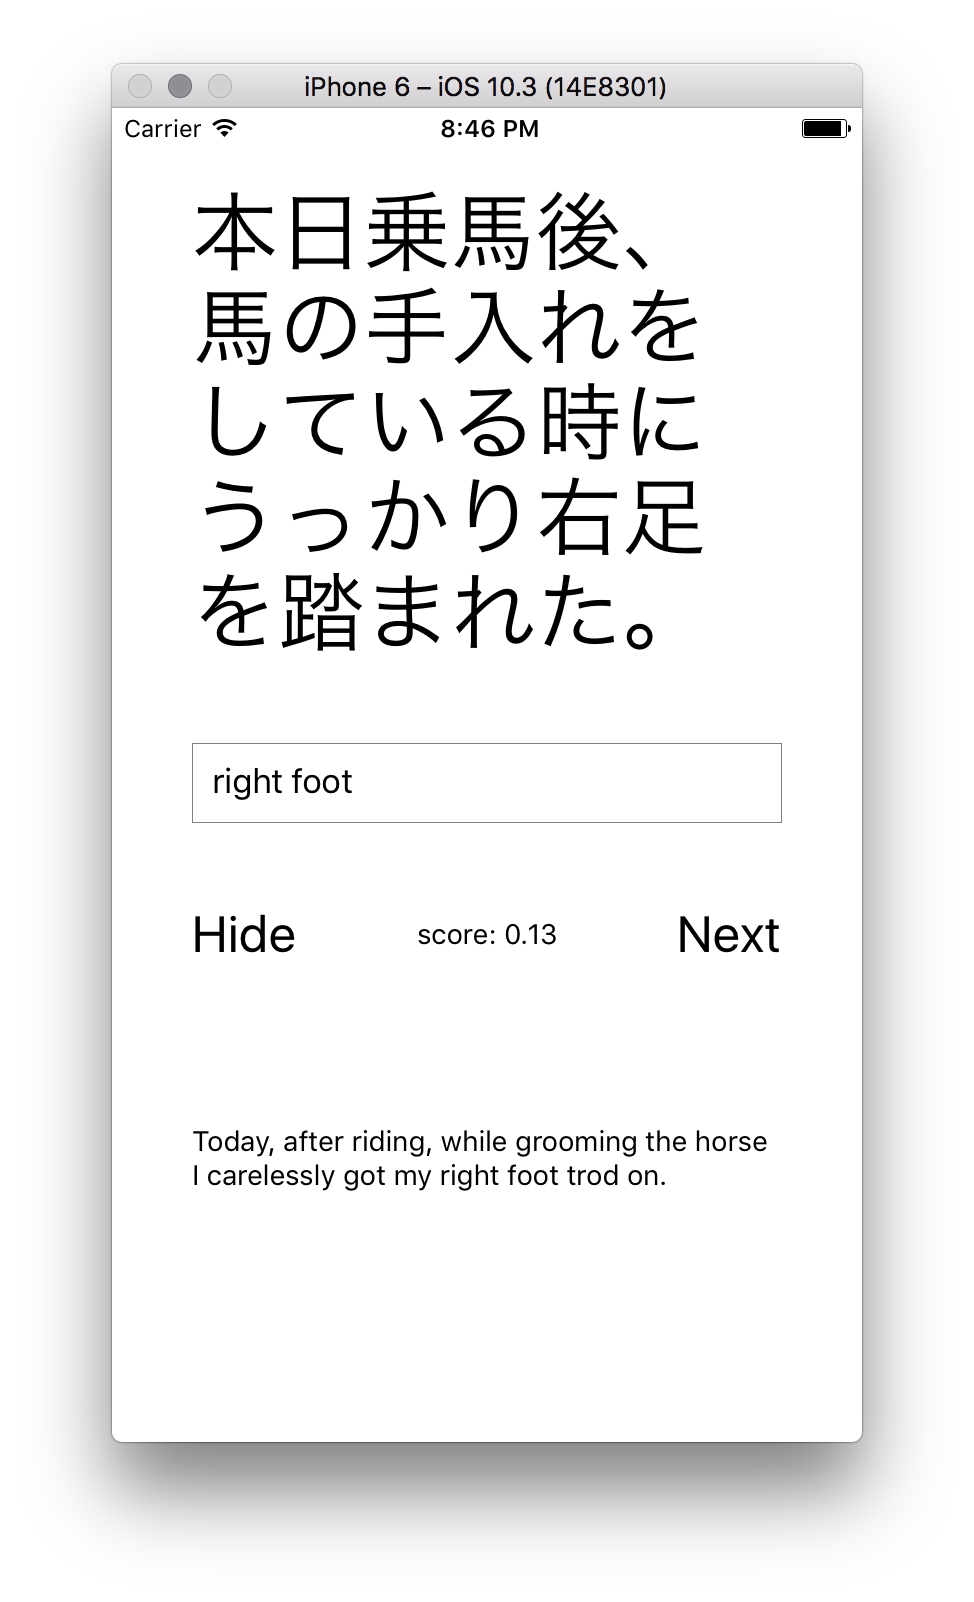
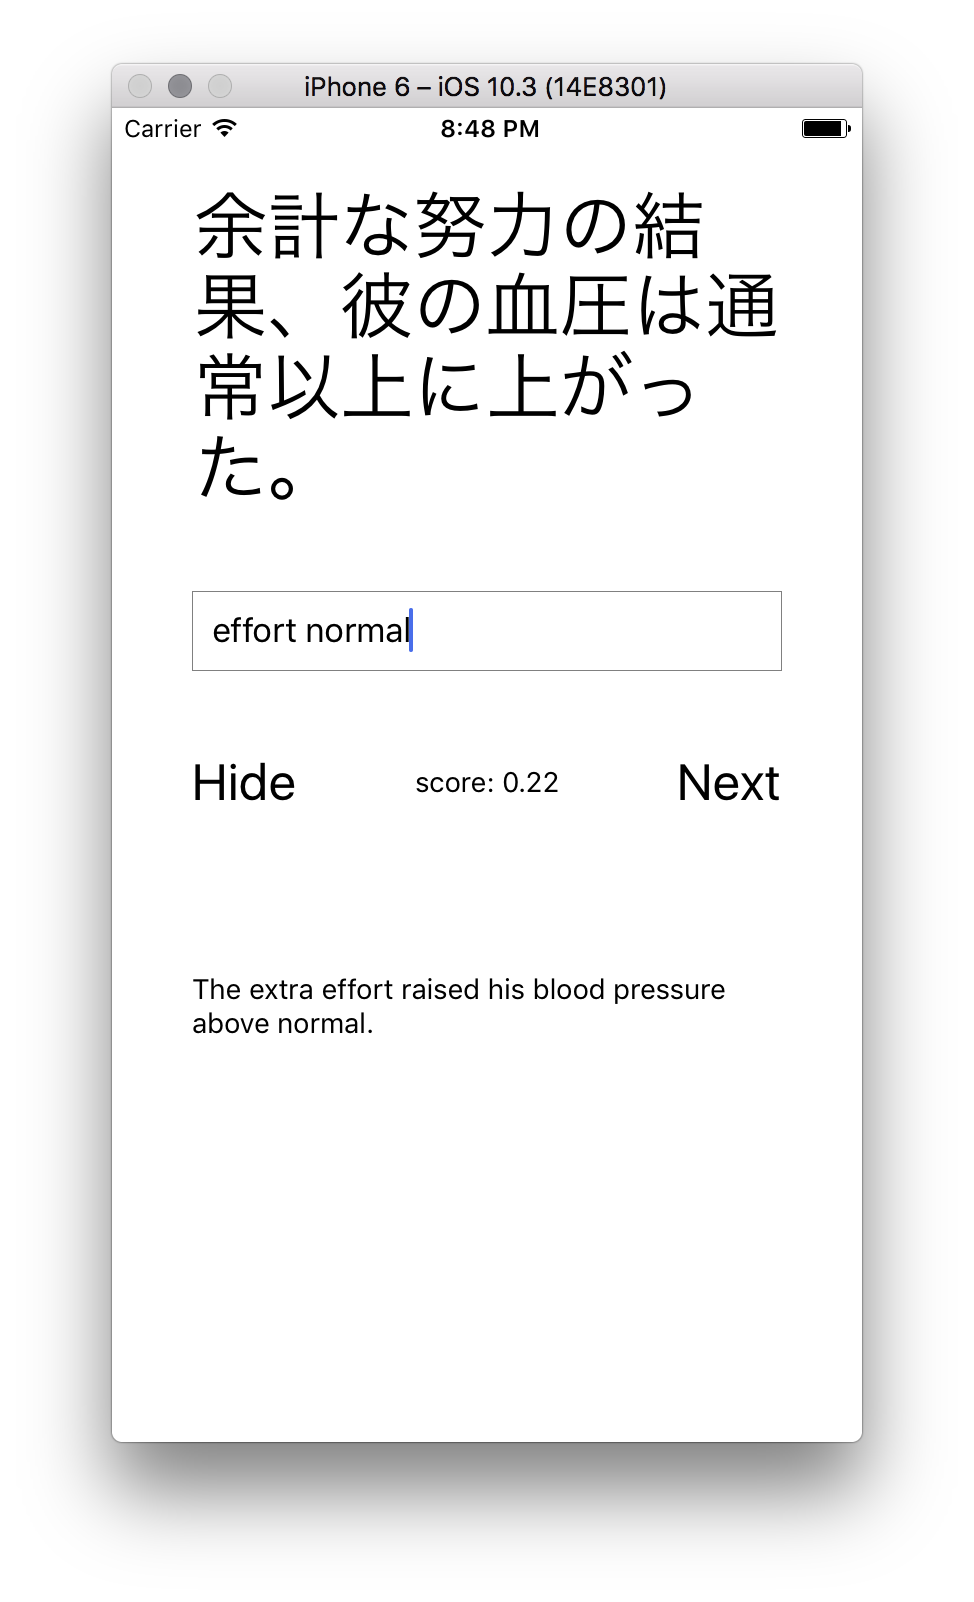
more style

diff --git a/nekoapp/app/components/Main.js b/nekoapp/app/components/Main.js
@@ -68,8 +68,8 @@ export default class Main extends Component {
               padding: 40
             }}
           >
-            <View>
-              <Text h1 onPress={e => speak(sentence.q)}>
+            <View style={{ alignItems: 'center' }}>
+              <Text h2 onPress={e => speak(sentence.q)}>
                 {sentence.q}
               </Text>
             </View>
